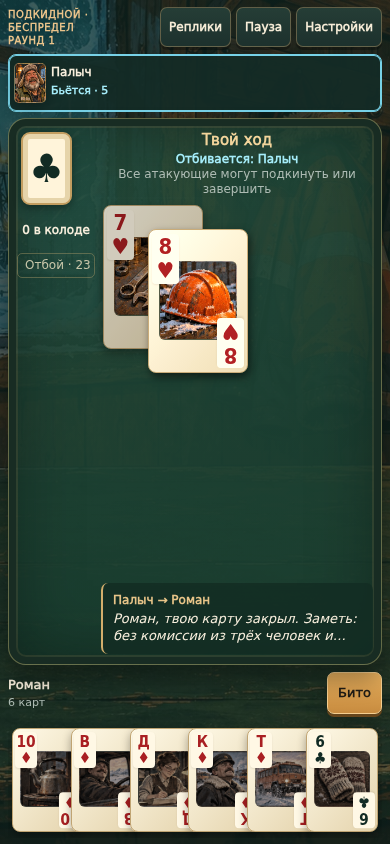
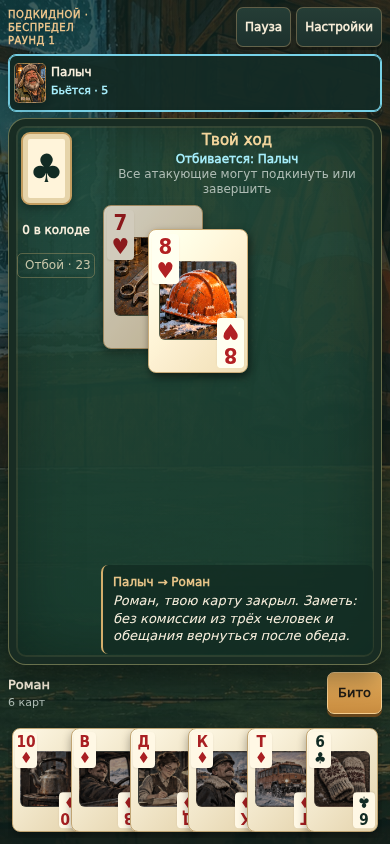
Show complete dialogue messages without line clamping

Changed region(s): [[0.2462, 0.6777, 0.9231, 0.7701], [0.4, 0.0, 0.6154, 0.0616]]

diff --git a/sw.js b/sw.js
@@ -1,6 +1,6 @@
 /* Network first for navigation and assets. A failed connection falls back to this exact release. */
-const BUILD = {"version":"1.9.1","id":"a95acb478969f48e","html":"index-a95acb478969f48e.html","js":"public/build/app-a95acb478969f48e.js","css":"public/build/app-a95acb478969f48e.css"},
-  FILES = ["index.html","index-a95acb478969f48e.html","public/build/app-a95acb478969f48e.js","public/build/app-a95acb478969f48e.css","public/assets/audio/button.wav?v=a95acb478969f48e","public/assets/audio/card.wav?v=a95acb478969f48e","public/assets/audio/cover.wav?v=a95acb478969f48e","public/assets/audio/deal.wav?v=a95acb478969f48e","public/assets/audio/event.wav?v=a95acb478969f48e","public/assets/audio/kettle.wav?v=a95acb478969f48e","public/assets/audio/music.wav?v=a95acb478969f48e","public/assets/audio/take.wav?v=a95acb478969f48e","public/assets/audio/win.wav?v=a95acb478969f48e","public/assets/audio/wind.wav?v=a95acb478969f48e","public/assets/cards.webp?v=a95acb478969f48e","public/assets/decor.webp?v=a95acb478969f48e","public/assets/events.webp?v=a95acb478969f48e","public/assets/fonts/LICENSE.txt?v=a95acb478969f48e","public/assets/fonts/body.ttf?v=a95acb478969f48e","public/assets/fonts/heading.ttf?v=a95acb478969f48e","public/assets/loss-crew.webp?v=a95acb478969f48e","public/assets/npc-extra.webp?v=a95acb478969f48e","public/assets/npc.webp?v=a95acb478969f48e","public/assets/room.webp?v=a95acb478969f48e"];
+const BUILD = {"version":"1.9.2","id":"37fdfd93b1e9504b","html":"index-37fdfd93b1e9504b.html","js":"public/build/app-37fdfd93b1e9504b.js","css":"public/build/app-37fdfd93b1e9504b.css"},
+  FILES = ["index.html","index-37fdfd93b1e9504b.html","public/build/app-37fdfd93b1e9504b.js","public/build/app-37fdfd93b1e9504b.css","public/assets/audio/button.wav?v=37fdfd93b1e9504b","public/assets/audio/card.wav?v=37fdfd93b1e9504b","public/assets/audio/cover.wav?v=37fdfd93b1e9504b","public/assets/audio/deal.wav?v=37fdfd93b1e9504b","public/assets/audio/event.wav?v=37fdfd93b1e9504b","public/assets/audio/kettle.wav?v=37fdfd93b1e9504b","public/assets/audio/music.wav?v=37fdfd93b1e9504b","public/assets/audio/take.wav?v=37fdfd93b1e9504b","public/assets/audio/win.wav?v=37fdfd93b1e9504b","public/assets/audio/wind.wav?v=37fdfd93b1e9504b","public/assets/cards.webp?v=37fdfd93b1e9504b","public/assets/decor.webp?v=37fdfd93b1e9504b","public/assets/events.webp?v=37fdfd93b1e9504b","public/assets/fonts/LICENSE.txt?v=37fdfd93b1e9504b","public/assets/fonts/body.ttf?v=37fdfd93b1e9504b","public/assets/fonts/heading.ttf?v=37fdfd93b1e9504b","public/assets/loss-crew.webp?v=37fdfd93b1e9504b","public/assets/npc-extra.webp?v=37fdfd93b1e9504b","public/assets/npc.webp?v=37fdfd93b1e9504b","public/assets/room.webp?v=37fdfd93b1e9504b"];
 const SCOPE = new URL(self.registration.scope).pathname;
 const PREFIX = "durak-vahta-" + SCOPE.replace(/[^a-z0-9]/gi, "_") + "-";
 const CACHE = PREFIX + BUILD.id;

diff --git a/public/build/app-37fdfd93b1e9504b.css b/public/build/app-37fdfd93b1e9504b.css
@@ -1,10 +1,10 @@
 @font-face {
   font-family: Vahta;
-  src: url("../../public/assets/fonts/heading.ttf?v=a95acb478969f48e");
+  src: url("../../public/assets/fonts/heading.ttf?v=37fdfd93b1e9504b");
 }
 @font-face {
   font-family: Local;
-  src: url("../../public/assets/fonts/body.ttf?v=a95acb478969f48e");
+  src: url("../../public/assets/fonts/body.ttf?v=37fdfd93b1e9504b");
 }
 * {
   box-sizing: border-box;
@@ -21,14 +21,14 @@ body {
   line-height: 1.5;
   background:
     linear-gradient(90deg, rgba(11, 26, 25, 0.9), rgba(11, 26, 25, 0.28)),
-    url("../../public/assets/room.webp?v=a95acb478969f48e") center/cover fixed;
+    url("../../public/assets/room.webp?v=37fdfd93b1e9504b") center/cover fixed;
   min-height: 100vh;
 }
 body[data-screen="game"],
 body[data-screen="results"] {
   background:
     linear-gradient(#102722bd, #102722b0),
-    url("../../public/assets/room.webp?v=a95acb478969f48e") center/cover fixed;
+    url("../../public/assets/room.webp?v=37fdfd93b1e9504b") center/cover fixed;
 }
 button,
 input,
@@ -3471,10 +3471,10 @@ body[data-screen="game"] .game-scene {
 .speech p {
   font-size: 14px;
   line-height: 1.35;
-  display: -webkit-box;
-  -webkit-line-clamp: 2;
-  -webkit-box-orient: vertical;
-  overflow: hidden;
+  display: block;
+  white-space: normal;
+  overflow-wrap: anywhere;
+  overflow: visible;
 }
 .speech strong {
   font-size: 12px;
@@ -5071,12 +5071,7 @@ html {
   border-bottom: 2px solid #77d2e7;
 }
 
-/* Roomier viewports show more of the punchline; full dialogue stays available on tap. */
-@media (min-height: 850px), (min-width: 1000px) {
-  .speech p {
-    -webkit-line-clamp: 4;
-  }
-}
+/* Dialogue always wraps fully within its own table row. */
 
 /* All dealt cards share a single camera; pair origins never reflow. */
 .table-world .playing-card .corner,

diff --git a/index-37fdfd93b1e9504b.html b/index-37fdfd93b1e9504b.html
@@ -4,7 +4,7 @@
 <head>
 <meta charset="utf-8">
 <meta name="viewport" content="width=device-width,initial-scale=1,viewport-fit=cover,interactive-widget=resizes-content">
-<meta name="vahta-build" content="a95acb478969f48e">
+<meta name="vahta-build" content="37fdfd93b1e9504b">
 <meta name="theme-color" content="#162c29">
 <meta http-equiv="Cache-Control" content="no-cache, no-store, must-revalidate">
 <title>Дурак на вахте</title>
@@ -13,7 +13,7 @@
 <body>
 <div id="app"></div><div id="overlay"></div><div id="toast" role="status" aria-live="polite"></div>
 <div id="boot" role="status"><span>Загрузка игры…</span></div>
-<script>window.VahtaBuild={"version":"1.9.1","id":"a95acb478969f48e","html":"index-a95acb478969f48e.html","js":"public/build/app-a95acb478969f48e.js","css":"public/build/app-a95acb478969f48e.css"};
+<script>window.VahtaBuild={"version":"1.9.2","id":"37fdfd93b1e9504b","html":"index-37fdfd93b1e9504b.html","js":"public/build/app-37fdfd93b1e9504b.js","css":"public/build/app-37fdfd93b1e9504b.css"};
 /* Revalidate before starting any game code. Offline fallback never mixes releases. */
 (async function () {
   "use strict";

diff --git a/index.html b/index.html
@@ -4,7 +4,7 @@
 <head>
 <meta charset="utf-8">
 <meta name="viewport" content="width=device-width,initial-scale=1,viewport-fit=cover,interactive-widget=resizes-content">
-<meta name="vahta-build" content="a95acb478969f48e">
+<meta name="vahta-build" content="37fdfd93b1e9504b">
 <meta name="theme-color" content="#162c29">
 <meta http-equiv="Cache-Control" content="no-cache, no-store, must-revalidate">
 <title>Дурак на вахте</title>
@@ -13,7 +13,7 @@
 <body>
 <div id="app"></div><div id="overlay"></div><div id="toast" role="status" aria-live="polite"></div>
 <div id="boot" role="status"><span>Загрузка игры…</span></div>
-<script>window.VahtaBuild={"version":"1.9.1","id":"a95acb478969f48e","html":"index-a95acb478969f48e.html","js":"public/build/app-a95acb478969f48e.js","css":"public/build/app-a95acb478969f48e.css"};
+<script>window.VahtaBuild={"version":"1.9.2","id":"37fdfd93b1e9504b","html":"index-37fdfd93b1e9504b.html","js":"public/build/app-37fdfd93b1e9504b.js","css":"public/build/app-37fdfd93b1e9504b.css"};
 /* Revalidate before starting any game code. Offline fallback never mixes releases. */
 (async function () {
   "use strict";

diff --git a/src/styles/viewport.css b/src/styles/viewport.css
@@ -654,10 +654,10 @@ body[data-screen="game"] .game-scene {
 .speech p {
   font-size: 14px;
   line-height: 1.35;
-  display: -webkit-box;
-  -webkit-line-clamp: 2;
-  -webkit-box-orient: vertical;
-  overflow: hidden;
+  display: block;
+  white-space: normal;
+  overflow-wrap: anywhere;
+  overflow: visible;
 }
 .speech strong {
   font-size: 12px;
@@ -2254,12 +2254,7 @@ html {
   border-bottom: 2px solid #77d2e7;
 }
 
-/* Roomier viewports show more of the punchline; full dialogue stays available on tap. */
-@media (min-height: 850px), (min-width: 1000px) {
-  .speech p {
-    -webkit-line-clamp: 4;
-  }
-}
+/* Dialogue always wraps fully within its own table row. */
 
 /* All dealt cards share a single camera; pair origins never reflow. */
 .table-world .playing-card .corner,

diff --git a/README.md b/README.md
@@ -213,3 +213,7 @@ Playgama/Yandex и любые публикационные интеграции 
 ## Версия 1.9.1: реплики без действий по нажатию
 
 Сообщения персонажей отображаются обычными текстовыми блоками. У них нет действия, роли кнопки или перехода в журнал. Код окна реплик и обработчик его открытия удалены: нажатие на сообщение, имя или текст не открывает окно и не ставит партию на паузу. Браузерные проверки диалогов проверяют это вместе с правильными адресатами реплик.
+
+## Версия 1.9.2: полные реплики без обрезания
+
+Сняты ограничения реплик двумя/четырьмя строками и скрытие переполненного текста. Сообщения сразу переносятся целиком в собственном ряду стола, без многоточия и открытия дополнительного окна. Браузерные проверки измеряют полный текст и границы сообщения; проверки стола подтверждают отсутствие наложений на карты и прокрутки.
